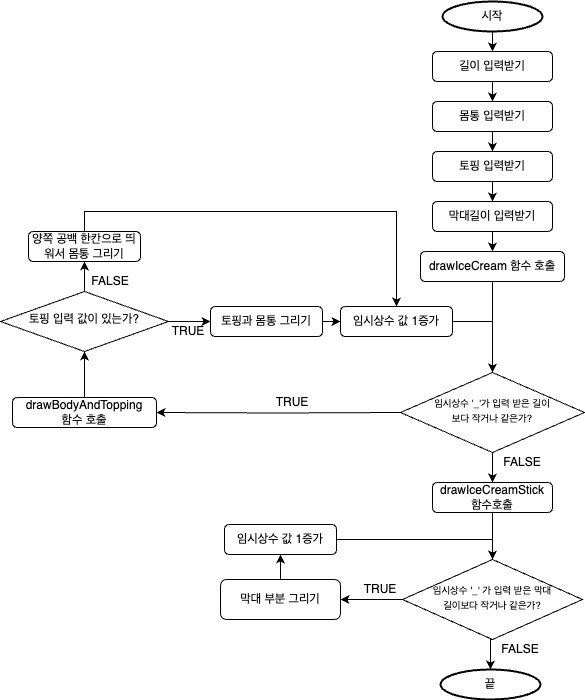
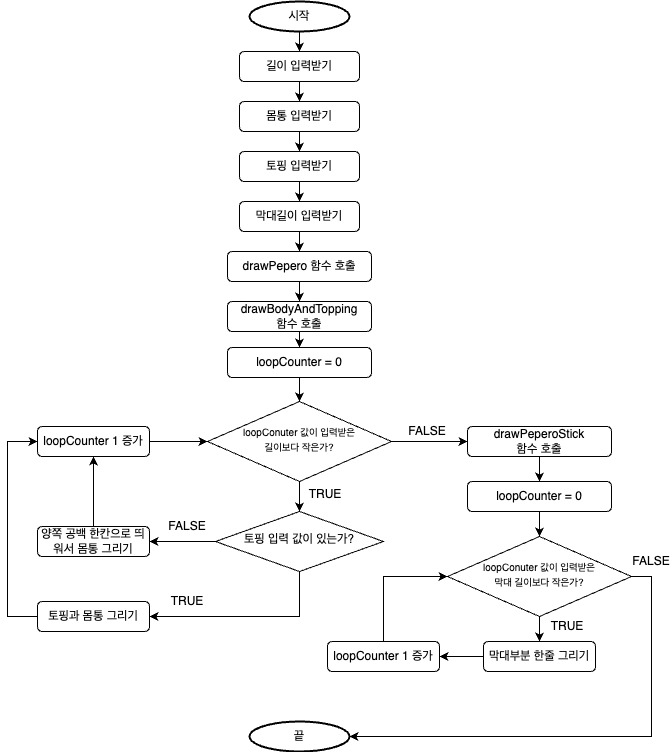
변경사항 - 아이크스림이 아닌 빼빼로에 맞게 함수 및 변수 네이밍 변경 - for 반복문에서 while 반복문으로 변경 후 변수 loopCounter 추가 - 순서도 변경

diff --git a/CodeStarterCamp_Week1/main.swift b/CodeStarterCamp_Week1/main.swift
@@ -7,41 +7,45 @@
 
 import Foundation
 
-//아이스크림의 크림 부분을 출력하는 함수
-func drawIceCream(creamHeight: Int, creamBody: String, creamTopping: String, stickHeight: Int ) {
-    for _ in 1...creamHeight {
-        drawBodyAndTopping(Body: creamBody, Topping: creamTopping)
-    }
-    for _ in 1...stickHeight {
-        drawIceCreamStick(stickHeight: stickHeight)
+//빼빼로에 대한 정보 (길이, 몸통, 토핑, 막대길이)를 입력받아서 빼빼로를 출력하는 함수
+func drawPepero(Height: Int, Body: String, Topping: String, stickHeight: Int ) {
+    drawBodyAndTopping(Height: Height, Body: Body, Topping: Topping)
+    drawPeperoStick(stickHeight: stickHeight)
+}
+
+//빼빼로의 길이, 몸통, 토핑을 매개변수로 입력받아 몸통과 토핑을 출력하는 함수
+func drawBodyAndTopping(Height: Int, Body: String, Topping: String) {
+    var loopCounter = 0;
+    while loopCounter < Height {
+        //토핑에 빈값을 입력했을때 몸통 옆쪽으로 한칸씩 띄워서 출력
+        if(Topping.isEmpty) {
+            print(" \(Body) ")
+        }
+        else {
+            print("\(Topping)\(Body)\(Topping)")
+        }
+        loopCounter = loopCounter + 1
     }
 }
 
-//아이스크림의 토핑과 몸통 매개변수로 입력받아 몸통과 토핑을 출력하는 함수
-func drawBodyAndTopping(Body: String, Topping: String) {
-    //토핑에 빈값을 입력했을때 몸통 옆쪽으로 한칸씩 띄워서 출력
-    if(Topping.isEmpty) {
-        print(" \(Body) ")
-    }
-    else {
-        print("\(Topping)\(Body)\(Topping)")
-    }
-}
-
-//아이스크림의 막대 부분을 출력하는 함수
-func drawIceCreamStick(stickHeight: Int) {
+//빼빼로의 막대 부분을 출력하는 함수
+func drawPeperoStick(stickHeight: Int) {
+    var loopCounter = 0;
+    while loopCounter < stickHeight {
         print(" | | ")
+        loopCounter = loopCounter + 1
+    }
 }
 
 print("<정보>")
 print("길이 : ", terminator: "")
-var iceCreamHeight = Int(readLine()!)! //아이스크림 크림 부분 단수 입력받기
+var peperoHeight = Int(readLine()!)! //빼빼로 부분 길이 입력받기
 print("몸통 : ", terminator: "")
-var iceCreamBody = readLine()! //아이스크림 몸통 입력받기
+var peperoBody = readLine()! //빼빼로 몸통 입력받기
 print("토핑 : ", terminator: "")
-var iceCreamTopping = readLine()! //아이스크림 토핑 입력받기
+var peperoTopping = readLine()! //빼빼로 토핑 입력받기
 print("막대길이 : ", terminator: "")
-var iceCreamStickHeight = Int(readLine()!)! //아이스크림 막대 부분 단수 입력받기
+var peperoStickHeight = Int(readLine()!)! //빼빼로 막대 부분 길이 입력받기
 
-drawIceCream(creamHeight: iceCreamHeight, creamBody: iceCreamBody, creamTopping: iceCreamTopping, stickHeight: iceCreamStickHeight)
+drawPepero(Height: peperoHeight, Body: peperoBody, Topping: peperoTopping, stickHeight: peperoStickHeight)
 
